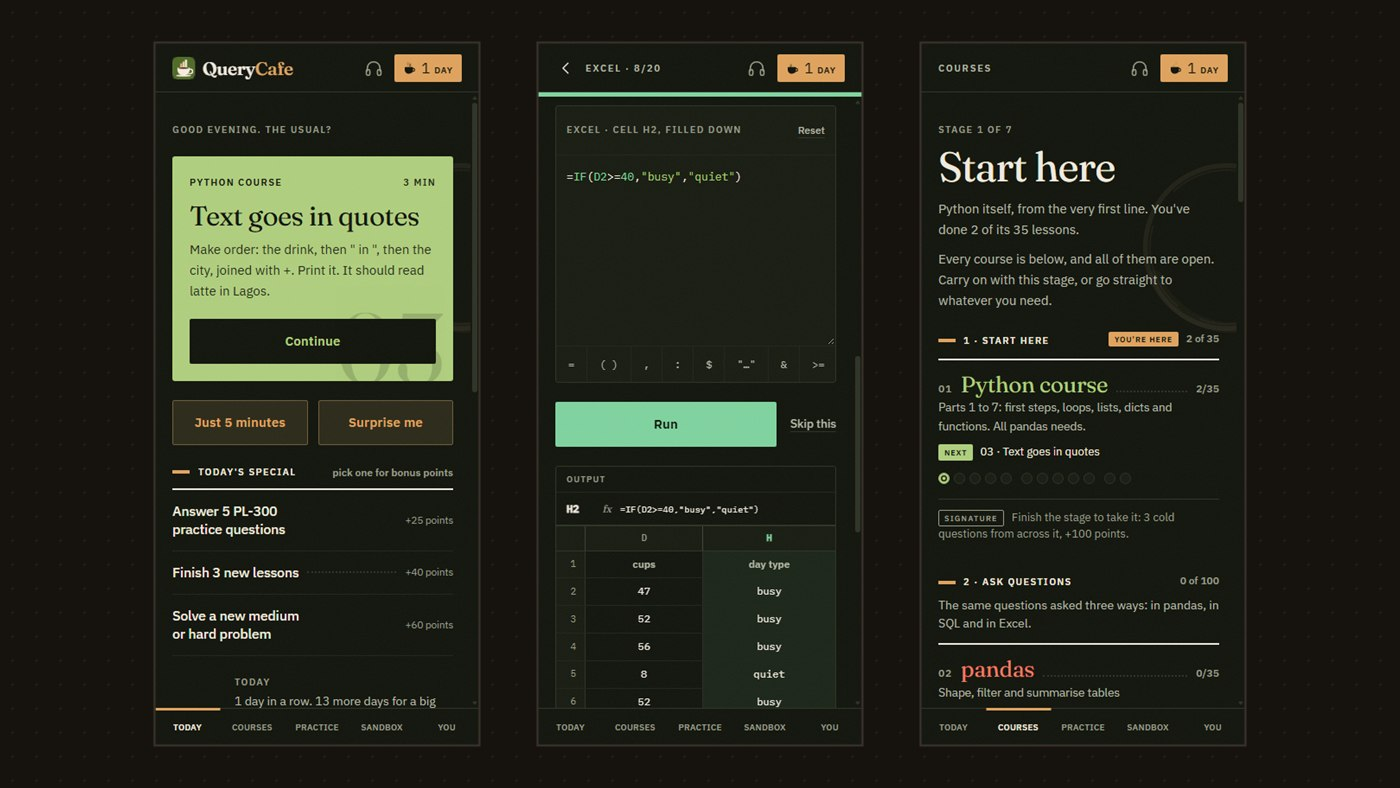
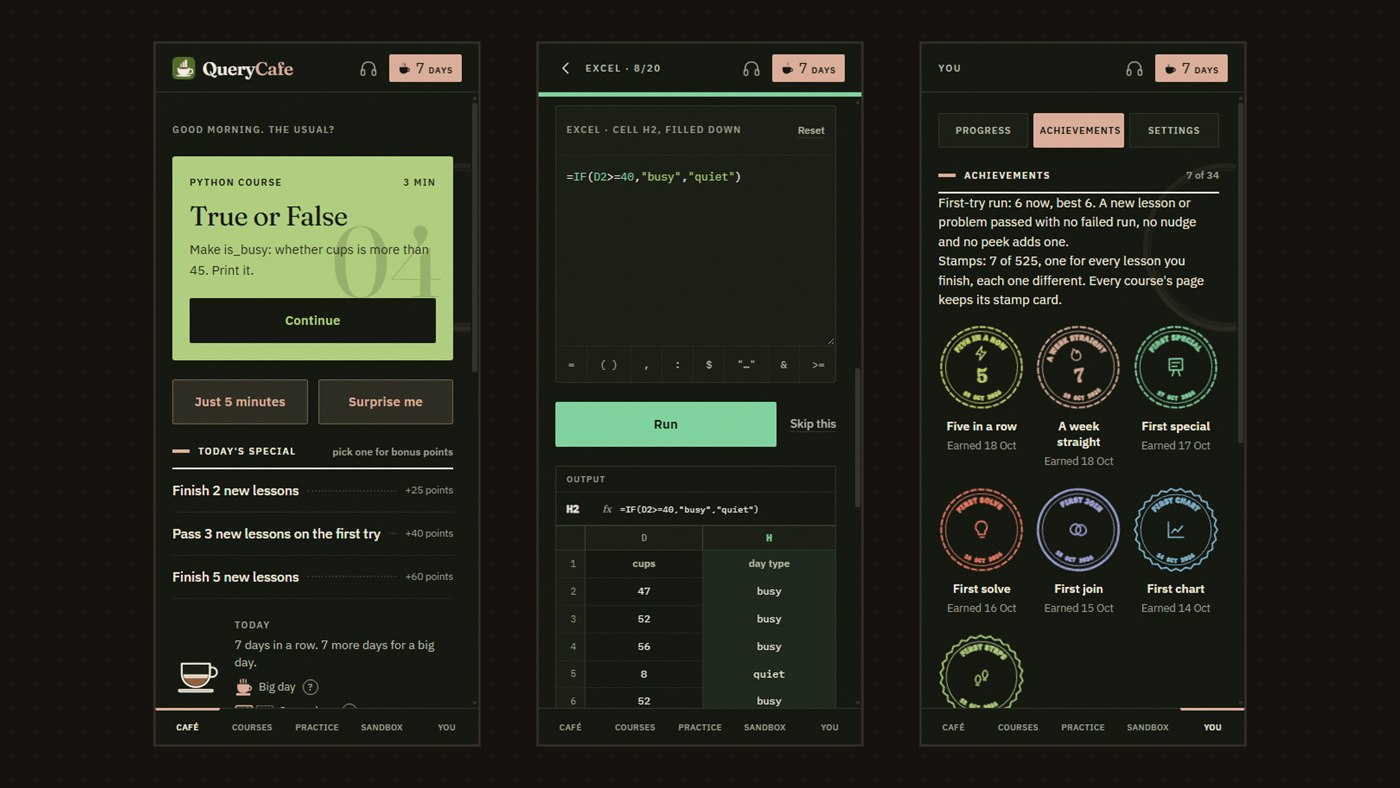
QueryCafe: 525 lessons and 191 practice problems with R, Refills and expected outputs, a five-language sandbox, and a new screenshot in its matcha and nude theme

diff --git a/js/app.js b/js/app.js
@@ -878,21 +878,22 @@
         },
 
         databites: {
-            kind: 'Pyodide · SQLite · JavaScript',
-            title: 'QueryCafe — Python, SQL, DAX and Excel in small bites',
+            kind: 'Pyodide · webR · SQLite · JavaScript',
+            title: 'QueryCafe — Python, SQL, DAX, Excel and R in small bites',
             live: 'https://ibomenobasiekanem.com/databites/',
             liveLabel: 'Open QueryCafe',
             repo: 'https://github.com/TheLordBass/databites',
             gallery: [
-                { src: 'assets/shots/querycafe.jpg', cap: 'On a phone, which is what it was built for. Home leads with the next lesson, each lesson is three bullets and an editor (here an Excel formula, drawn back as the column it fills), and Courses lays everything out as a path in seven stages.', alt: 'Three QueryCafe phone screens in its dark matcha and caramel theme: the home screen with the next lesson, a Continue button and today’s special in points; an Excel lesson whose IF formula is drawn back as the column it fills, under a formula bar; and the Courses screen with the first of seven stages and every course open below it.' }
+                { src: 'assets/shots/querycafe.jpg', cap: 'On a phone, which is what it was built for. Home, the Caf\u00e9, leads with the next lesson, each lesson is three bullets and an editor (here an Excel formula, drawn back as the column it fills), and every achievement you earn becomes a rubber stamp of its own.', alt: 'Three QueryCafe phone screens in its dark matcha and nude theme: the Café home screen with the next lesson, a Continue button and today’s special in points; an Excel lesson whose IF formula is drawn back as the column it fills, under a formula bar; and the Achievements screen, where every achievement earned is a rubber stamp of its own.' }
             ],
             blocks: [
                 { h: 'What it is', p: [
-                    'A learning app that runs entirely in the browser. It began as pandas lessons I could do on my phone and kept growing: there are now 490 lessons across 20 tracks: 355 in Python (an 80-lesson course for complete beginners, plus pandas, NumPy, messy data, statistics, forecasting, business metrics, machine learning, AI and algorithms), 45 in SQL, 45 in DAX (10 of those on Power BI modelling), 20 in Excel and 25 across four projects, laid out as a numbered path in the order to take them. On top of that are 175 practice problems (56 in Python, 56 in SQL, 28 in DAX, 16 in Excel and 19 algorithms) and a PL-300 prep section with 107 exam-style questions for the Power BI Data Analyst exam.',
-                    'Nothing gets installed, and your code stays in the browser. Progress does too, unless you turn on sync: it copies your progress to a small Supabase database under a code, with no name or email attached, so a phone and a work computer can share it. After the first load it works with no connection. That first load pulls down about 25MB of Python runtime, so it is worth doing on wifi once.'
+                    'A learning app that runs entirely in the browser. It began as pandas lessons I could do on my phone and kept growing: there are now 525 lessons across 21 tracks: 355 in Python (an 80-lesson course for complete beginners, plus pandas, NumPy, messy data, statistics, forecasting, business metrics, machine learning, AI and algorithms), 45 in SQL, 45 in DAX (10 of those on Power BI modelling), 20 in Excel, 35 in R and 25 across four projects, laid out as a numbered path in the order to take them. On top of that are 191 practice problems (56 in Python, 56 in SQL, 28 in DAX, 16 in Excel, 16 in R and 19 algorithms) and a PL-300 prep section with 107 exam-style questions for the Power BI Data Analyst exam.',
+                    'Nothing gets installed, and your code stays in the browser. Progress does too, unless you turn on sync: it copies your progress to a small Supabase database under a code, with no name or email attached, so a phone and a work computer can share it. After the first load it works with no connection. That first load pulls down about 25MB of Python runtime, so it is worth doing on wifi once. R is a second download, the first time you open anything in R.'
                 ]},
                 { h: 'Why I built it', p: [
-                    'Most data tutorials are built as long sessions that assume you can hold an hour of context in your head at once. That does not match how a lot of people learn, me included. So the home screen leads with one thing, the next lesson. Each concept gets three bullets at most before you type something, and getting stuck is one tap away from the answer with no penalty for taking it. The depth is still there for anyone who wants it: the SQL, pandas, DAX and Excel lessons each have an optional fold with why it works, the usual mistake and where it turns up at work. A five minute session is still worth doing, and you are far more likely to come back tomorrow.',
+                    'Most data tutorials are built as long sessions that assume you can hold an hour of context in your head at once. That does not match how a lot of people learn, me included. So the home screen leads with one thing, the next lesson. Each concept gets three bullets at most before you type something, and getting stuck is one tap away from the answer with no penalty for taking it. The depth is still there for anyone who wants it: the SQL, pandas, DAX, Excel and R lessons, and the whole Python course, each have an optional fold with why it works, the usual mistake and where it turns up at work. Every lesson can also show its expected output, worked out by running its own answer. A five minute session is still worth doing, and you are far more likely to come back tomorrow.',
+                    'Finished lessons come back a few days later as Refills, a short go at the task with the teaching folded away, and solved practice problems come back too, a week and then a few weeks on. Spacing it out is what makes it stick, and it is capped at three a day so it never turns into a pile.',
                     'There are optional background sounds for the same reason, because a bit of noise helps some people focus: lo-fi music generated in the app, a real recording of a caf\u00e9 (public domain, from freesound.org) and rain, each with its own volume.'
                 ]},
                 { h: 'How it was built', p: [
@@ -900,12 +901,13 @@
                     'What was mine was the reason for it and the direction: what it should teach, what to leave out, and how a lesson should feel on a phone. All of that came from the specific ways I kept bouncing off other tutorials.'
                 ]},
                 { h: 'The DAX and Excel engines', p: [
-                    'You cannot run Microsoft\u2019s DAX engine in a browser, so we built one: about 2,400 lines of Python that handles measures, filter and row context, context transition, CALCULATE with ALL, ALLEXCEPT and KEEPFILTERS, the X iterators, RELATED, RANKX, calculated columns and time intelligence on a marked calendar table. Relationships filter one way from lookup to data, as they do in a default Power BI model.',
+                    'You cannot run Microsoft\u2019s DAX engine in a browser, so we built one: about 2,500 lines of Python that handles measures, filter and row context, context transition, CALCULATE with ALL, ALLEXCEPT and KEEPFILTERS, the X iterators, RELATED, RANKX, calculated columns and time intelligence on a marked calendar table. Relationships filter one way from lookup to data, as they do in a default Power BI model.',
                     'Every DAX lesson\u2019s answer was checked against the same numbers worked out separately in pandas. This page used to flag one gap: a whole table used as a CALCULATE filter did not reach the lookup tables behind it. It does now, the way Power BI\u2019s expanded tables do, and it stops at a blank key where Power BI would use the blank row.',
-                    'Excel got the same treatment. The app\u2019s own tables become sheets, with headings in row 1, and about 3,500 lines of Python follow Excel\u2019s rules where a learner would notice: $ locking and filling down, how it rounds, dates stored as numbers, error values like #N/A that carry on until IFERROR catches them, lookups, and lists that spill. The answer is drawn as the sheet itself, and because Excel is visual, every Excel lesson and problem shows the sheet before you type, with the cell your formula goes in outlined. The engine is checked against about 130 formulas with known answers, with its totals checked against pandas.'
+                    'Excel got the same treatment. The app\u2019s own tables become sheets, with headings in row 1, and about 3,700 lines of Python follow Excel\u2019s rules where a learner would notice: $ locking and filling down, how it rounds, dates stored as numbers, error values like #N/A that carry on until IFERROR catches them, lookups, and lists that spill. The answer is drawn as the sheet itself, and because Excel is visual, every Excel lesson and problem shows the sheet before you type, with the cell your formula goes in outlined and each column\u2019s full range written out, so nobody has to count rows. After it runs, a formula can be stepped through from the inside, the way Excel\u2019s Evaluate Formula does it. The engine is checked against 111 formulas with known answers, with its totals checked against pandas.'
                 ]},
-                { h: 'One workspace, four languages', p: [
-                    'SQL runs in SQLite through Python\u2019s own sqlite3, and every DataFrame becomes a table of the same name. So the SQL lessons query the very same cafe table the pandas lessons use, and nothing needs keeping in sync. The sandbox has a Python, SQL, Excel and DAX switch over one shared workspace. Make a DataFrame in Python mode and it is a table in SQL mode and a sheet in Excel mode.',
+                { h: 'One workspace, five languages', p: [
+                    'SQL runs in SQLite through Python\u2019s own sqlite3, and every DataFrame becomes a table of the same name. So the SQL lessons query the very same cafe table the pandas lessons use, and nothing needs keeping in sync. The sandbox has a Python, SQL, Excel, DAX and R switch, and the first four share one workspace: make a DataFrame in Python mode and it is a table in SQL mode and a sheet in Excel mode.',
+                    'R runs in webR, a build of R for the browser, with dplyr loaded. It starts from copies of the same tables, so the R course asks the pandas course\u2019s questions again on the same data, and the R practice problems are judged on hidden tables like the Python ones.',
                     'Where SQLite does something differently from PostgreSQL, BigQuery or SQL Server, the lesson says so underneath: LIMIT against TOP, integer division, date functions and the rest, so what you learn carries over to whatever database a job uses.'
                 ]},
                 { h: 'Practice that tests honestly', p: [

diff --git a/index.html b/index.html
@@ -530,19 +530,19 @@
             <article class="card project-card is-featured has-shot" data-category="python" data-project="databites">
                 <a class="project-shot" href="#" data-project="databites" aria-label="Open write-up: QueryCafe">
                     <img src="assets/shots/querycafe.jpg" width="1400" height="788" loading="lazy" decoding="async"
-                         alt="Three QueryCafe phone screens in its dark matcha and caramel theme: the home screen with the next lesson, a Continue button and today’s special in points; an Excel lesson whose IF formula is drawn back as the column it fills, under a formula bar; and the Courses screen with the first of seven stages and every course open below it.">
+                         alt="Three QueryCafe phone screens in its dark matcha and nude theme: the Café home screen with the next lesson, a Continue button and today’s special in points; an Excel lesson whose IF formula is drawn back as the column it fills, under a formula bar; and the Achievements screen, where every achievement earned is a rubber stamp of its own.">
                 </a>
                 <div class="project-top">
-                    <span class="project-kind">Pyodide · SQLite · JavaScript</span>
-                    <h3 class="project-title">QueryCafe — Python, SQL, DAX and Excel in small bites</h3>
+                    <span class="project-kind">Pyodide · webR · SQLite · JavaScript</span>
+                    <h3 class="project-title">QueryCafe — Python, SQL, DAX, Excel and R in small bites</h3>
                 </div>
                 <p class="project-desc">
                     Short lessons that run in the browser with nothing to install. It started as pandas
-                    on my phone and is now 490 lessons across Python, SQL, DAX and Excel, 175 practice
+                    on my phone and is now 525 lessons across Python, SQL, DAX, Excel and R, 191 practice
                     problems and PL-300 exam prep. I built it with Claude as my coding partner, because most tutorials
                     assume you can hold an hour of context in your head at once, and some days I can't.
                 </p>
-                <ul class="tag-list"><li>Python</li><li>SQL</li><li>DAX</li><li>Excel</li><li>Pyodide</li></ul>
+                <ul class="tag-list"><li>Python</li><li>SQL</li><li>DAX</li><li>Excel</li><li>R</li><li>Pyodide</li></ul>
                 <div class="project-actions">
                     <button type="button" class="project-open" data-project="databites">Read the write-up</button>
                     <a class="project-viz" href="https://ibomenobasiekanem.com/databites/" target="_blank" rel="noopener noreferrer">Live<span class="sr-only">: open QueryCafe in the browser</span></a>
